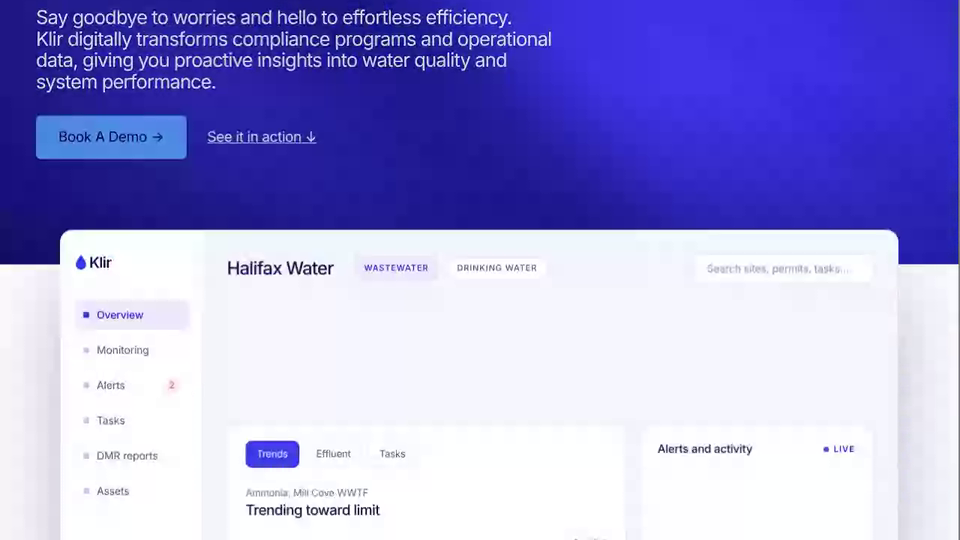
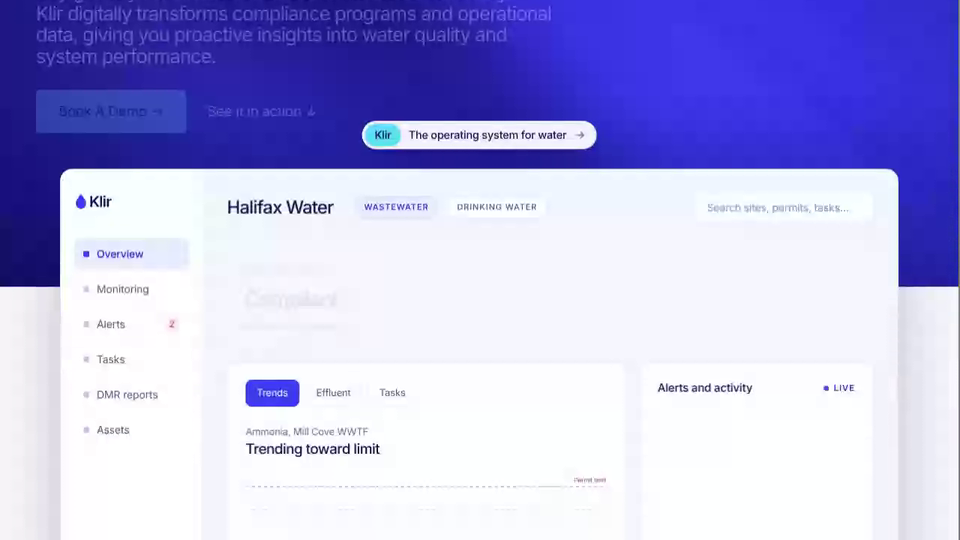
Klir Landing Page: no underline on See it in action (#473)
* Add Klir Wayfinding: scroll-driven blue wayfinding line with waterdrop pin and curve marks

Claude-Session: https://claude.ai/code/session_01AHeBdxxJMjuAF9w67sWwW5

* Klir Wayfinding: Clio-style water hero, drop appears on scroll (white to blue), thinner curves, no dotted track

Claude-Session: https://claude.ai/code/session_01AHeBdxxJMjuAF9w67sWwW5

* Klir Wayfinding: TerraPower-style content with gooey hover images, 'Built for Water.' on one line

Claude-Session: https://claude.ai/code/session_01AHeBdxxJMjuAF9w67sWwW5

* Klir Wayfinding: white teardrop nodes on the line, no dot beside eyebrows

Claude-Session: https://claude.ai/code/session_01AHeBdxxJMjuAF9w67sWwW5

* Klir Wayfinding: customers section with the largest US municipal water agencies after the hero

Claude-Session: https://claude.ai/code/session_01AHeBdxxJMjuAF9w67sWwW5

* Klir Wayfinding: thin gradient wayfinding line with faded edges

Claude-Session: https://claude.ai/code/session_01AHeBdxxJMjuAF9w67sWwW5

* Rename to Klir Landing Page, nav arrows, remove line curves, thinner teardrop outline

Claude-Session: https://claude.ai/code/session_01AHeBdxxJMjuAF9w67sWwW5

* Klir Landing Page: Clio-style blue footer CTA, line fades at marked points, drop limited to the line

Claude-Session: https://claude.ai/code/session_01AHeBdxxJMjuAF9w67sWwW5

* Klir Landing Page: Halifax Water UI screen rising from the hero bottom on scroll, sky blue hero buttons
[…]

diff --git a/klir-landing-page/index.html b/klir-landing-page/index.html
@@ -34,7 +34,7 @@ header.site .links{display:flex;gap:34px;font-size:16px;margin-right:auto;margin
 .btn:hover{background:var(--indigo)}
 .btn.ghost{background:none;color:var(--navy);border:1.5px solid var(--navy);padding:13px 24px}
 .btn.ghost:hover{background:var(--navy);color:#fff}
-.tl{color:#fff;font-size:19px;letter-spacing:-.02em}
+.tl{color:#fff;font-size:19px;letter-spacing:-.02em;text-decoration:none}
 #path{position:absolute;left:0;top:0;width:100%;pointer-events:none;overflow:visible}
 section{position:relative;min-height:92vh;padding:12vh 48px 12vh var(--cx);max-width:1320px;display:flex;flex-direction:column;justify-content:center}
 .eyebrow{display:inline-flex;align-items:center;gap:10px;font-size:15px;font-weight:600;letter-spacing:.04em;text-transform:uppercase;color:var(--indigo);margin-bottom:24px;position:relative}
@@ -386,9 +386,10 @@ im.complete&&im.naturalWidth?init():im.addEventListener('load',init)});
 /* water: a lit height field in Klir blues */
 (()=>{const c=$('water'),g=c.getContext('webgl');if(!g)return;
 const vs='attribute vec2 p;void main(){gl_Position=vec4(p,0,1);}';
-const fs=`precision highp float;uniform vec2 r;uniform float t;
+const fs=`precision highp float;uniform vec2 r;uniform float t;uniform vec2 M;uniform float S;
 float h(vec2 p){float v=0.;vec2 q=p;for(int i=0;i<5;i++){float f=float(i)+1.;q+=vec2(sin(q.y*1.3*f+t*.45*f)*.35/f,cos(q.x*1.1*f-t*.4*f)*.35/f);v+=sin(q.x*1.7+q.y*.9+t*.3*f)/f;}return v*.5;}
-void main(){vec2 uv=gl_FragCoord.xy/r.y*3.2;float e=.012;float a=h(uv);vec3 n=normalize(vec3(a-h(uv+vec2(e,0.)),a-h(uv+vec2(0.,e)),.012));
+float H(vec2 p){vec2 q=p-M;float d=sqrt(dot(q,q)+.6);return h(p)+S*.075*exp(-dot(q,q)*.11)*sin(d*3.6-t*2.2);}
+void main(){vec2 uv=gl_FragCoord.xy/r.y*3.2;float e=.012;float a=H(uv);vec3 n=normalize(vec3(a-H(uv+vec2(e,0.)),a-H(uv+vec2(0.,e)),.012));
 vec3 L=normalize(vec3(-.5,.6,.7));float d=clamp(dot(n,L),0.,1.);float s=pow(clamp(dot(reflect(-L,n),vec3(0,0,1)),0.,1.),18.);
 vec3 deep=vec3(.06,.03,.38),mid=vec3(.23,.23,.94),hi=vec3(.72,.78,1.);
 vec3 col=mix(deep,mid,smoothstep(.15,.75,d));col=mix(col,hi,smoothstep(.8,1.,d)*.6+s*.7);gl_FragColor=vec4(col,1.);}`;
@@ -396,8 +397,9 @@ const mk=(ty,src)=>{const o=g.createShader(ty);g.shaderSource(o,src);g.compileSh
 g.attachShader(pr,mk(g.VERTEX_SHADER,vs));g.attachShader(pr,mk(g.FRAGMENT_SHADER,fs));g.linkProgram(pr);g.useProgram(pr);
 g.bindBuffer(g.ARRAY_BUFFER,g.createBuffer());g.bufferData(g.ARRAY_BUFFER,new Float32Array([-1,-1,3,-1,-1,3]),g.STATIC_DRAW);
 const l=g.getAttribLocation(pr,'p');g.enableVertexAttribArray(l);g.vertexAttribPointer(l,2,g.FLOAT,false,0,0);
+let mx=.5,my=.3,sx=.5,sy=.3,sS=0,tS=0;const hero=document.querySelector('.hero');hero.addEventListener('pointermove',e=>{const r=c.getBoundingClientRect();mx=(e.clientX-r.left)/r.width;my=(e.clientY-r.top)/r.height;tS=1});hero.addEventListener('pointerleave',()=>{tS=0});
 const U=n=>g.getUniformLocation(pr,n),still=matchMedia('(prefers-reduced-motion:reduce)').matches;
-function f(ms){const w=c.clientWidth/1.5|0,hh=c.clientHeight/1.5|0;if(c.width!=w||c.height!=hh){c.width=w;c.height=hh}g.viewport(0,0,w,hh);g.uniform2f(U('r'),w,hh);g.uniform1f(U('t'),ms/1000+4);g.drawArrays(g.TRIANGLES,0,3);if(!still)requestAnimationFrame(f)}
+function f(ms){const w=c.clientWidth/1.5|0,hh=c.clientHeight/1.5|0;if(c.width!=w||c.height!=hh){c.width=w;c.height=hh}g.viewport(0,0,w,hh);g.uniform2f(U('r'),w,hh);sx+=(mx-sx)*.07;sy+=(my-sy)*.07;sS+=(tS-sS)*.05;g.uniform2f(U('M'),sx*(w/hh)*3.2,(1-sy)*3.2);g.uniform1f(U('S'),sS);g.uniform1f(U('t'),ms/1000+4);g.drawArrays(g.TRIANGLES,0,3);if(!still)requestAnimationFrame(f)}
 requestAnimationFrame(f)})();
 </script>
 </body>
